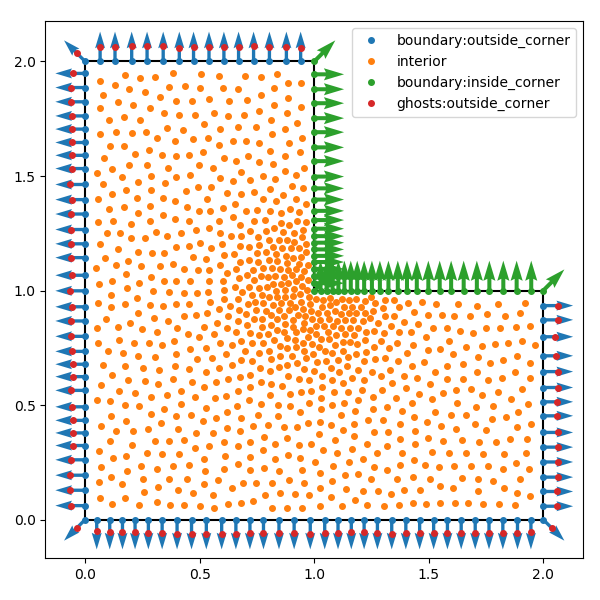
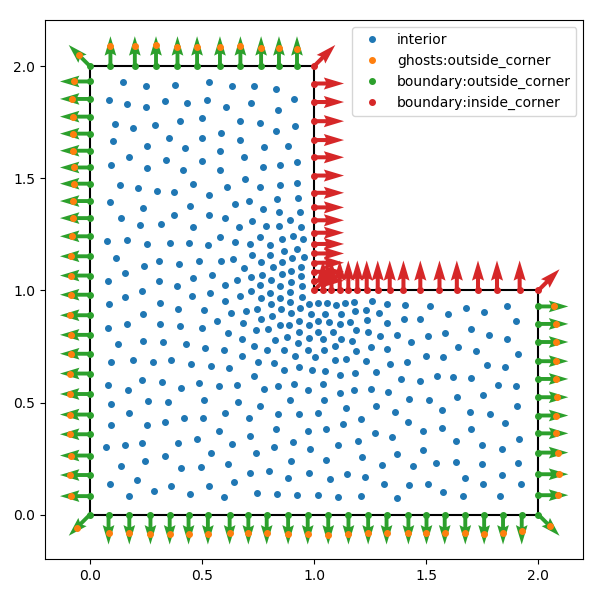
added a test for min_energy_nodes to see if any nodes are too close to eachother

diff --git a/rbf/nodes.py b/rbf/nodes.py
@@ -155,9 +155,16 @@ def _disperse(nodes,
 
   pinned_nodes = np.asarray(pinned_nodes, dtype=float)
   if m is None:
-    # number of neighbors defaults to 3 raised to the number of
-    # spatial dimensions
-    m = 3**nodes.shape[1]
+    # the default number of neighboring nodes to use when computing
+    # the repulsion force is 7 for 2D and 13 for 3D
+    if nodes.shape[1] == 1:
+      m = 3
+
+    elif nodes.shape[1] == 2:
+      m = 7
+
+    elif nodes.shape[1] == 3:
+      m = 13
 
   # ensure that the number of nodes used to determine repulsion force
   # is less than or equal to the total number of nodes
@@ -425,7 +432,14 @@ def _neighbor_argsort(nodes, m=None, vert=None, smp=None):
 
   '''
   if m is None:
-    m = 3**nodes.shape[1]
+    # this should be roughly equal to the stencil size for the RBF-FD
+    # problem
+    if nodes.shape[1] == 1:
+        m = 5
+    elif nodes.shape[1] == 2:
+        m = 30
+    elif nodes.shape[1] == 3:
+        m = 50
 
   m = min(m, nodes.shape[0])
   # find the indices of the nearest n nodes for each node
@@ -453,6 +467,32 @@ def _sort_nodes(nodes, groups, normals):
     out_groups[key] = reverse_sort_idx[val]
 
   return out_nodes, out_groups, out_normals
+
+
+def _test_node_spacing(nodes, rho):
+  '''
+  Test that no nodes are unusually close to eachother (which may
+  have occurred when snapping nodes to the boundary or placing ghost
+  nodes.
+  '''
+  if rho is None:
+    rho = _default_rho
+
+  _, dist = _neighbors(nodes, 2)
+  # distance to nearest neighbor
+  dist = dist[:, 1]
+  density = 1.0/dist**nodes.shape[1]
+  normalized_density = np.log10(density / rho(nodes))
+  percs = np.percentile(normalized_density, [10, 50, 90])
+  med = percs[1]
+  idr = percs[2] - percs[0]
+  is_too_close = normalized_density < (med - 2*idr)
+  if np.any(is_too_close):
+    indices, = is_too_close.nonzero()
+    for idx in indices:
+      logger.warning(
+        'Node %s (%s) is unusually close to a neighboring '
+        'node.' % (idx, nodes[idx]))
 
 
 def min_energy_nodes(N, vert, smp,
@@ -678,11 +718,11 @@ def min_energy_nodes(N, vert, smp,
   if pinned_nodes.size != 0:
     # append the pinned nodes to the output    
     groups['pinned'] = np.arange(
-        nodes.shape[0],
-        nodes.shape[0] + pinned_nodes.shape[0])
+      nodes.shape[0],
+      nodes.shape[0] + pinned_nodes.shape[0])
     normals = np.vstack((
-        normals, 
-        np.full_like(pinned_nodes, np.nan)))        
+      normals, 
+      np.full_like(pinned_nodes, np.nan)))        
     nodes = np.vstack((nodes, pinned_nodes))
             
   if boundary_groups_with_ghosts is not None:  
@@ -693,6 +733,9 @@ def min_energy_nodes(N, vert, smp,
   # in memory. Update `indices` so that it is still pointing to the
   # same nodes
   nodes, groups, normals = _sort_nodes(nodes, groups, normals)
+
+  # verify that the nodes are not too close to eachother
+  _test_node_spacing(nodes, rho)
 
   logger.debug('finished generating %s nodes' % nodes.shape[0])
   return nodes, groups, normals

diff --git a/docs/scripts/nodes.a.py b/docs/scripts/nodes.a.py
@@ -18,7 +18,7 @@ boundary_groups = {'inside_corner': [0, 1],
 # define which boundary groups get ghost nodes
 boundary_groups_with_ghosts = ['outside_corner']
 # total number of nodes 
-N = 1000 
+N = 500
 # define a node density function. It takes an (N, D) array of positions
 # and returns an (N,) array of normalized densities between 0 and 1
 def rho(x):

diff --git a/docs/scripts/fd.l.py b/docs/scripts/fd.l.py
@@ -89,7 +89,7 @@ groups = {'bottom': [0],
           'top': [2, 3, 4, 5],
           'sides': [1, 6]}
 
-nominal_node_count = 10000
+nominal_node_count = 1000
 stencil_size = 30
 poly_order = 2
 # lame parameters
